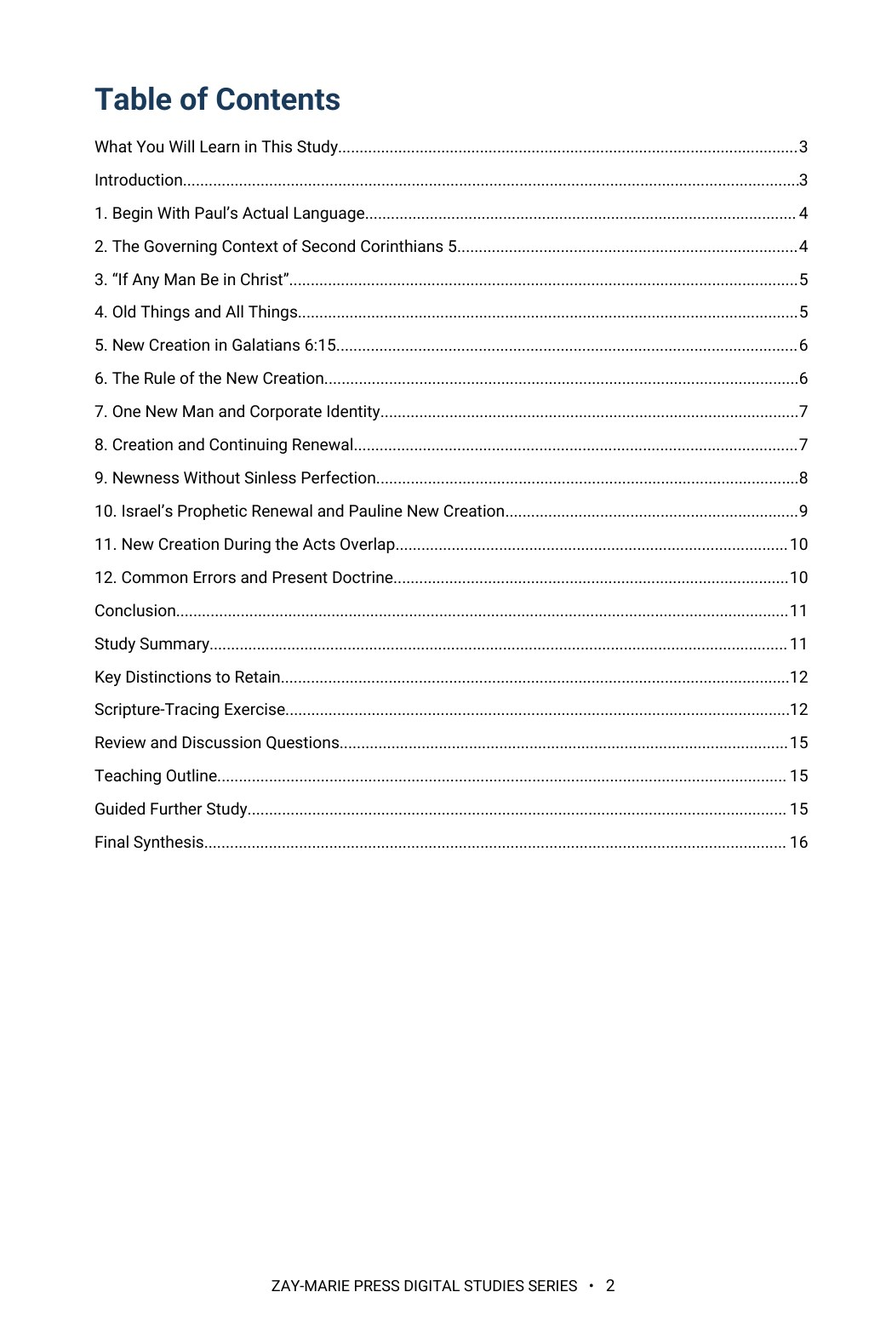
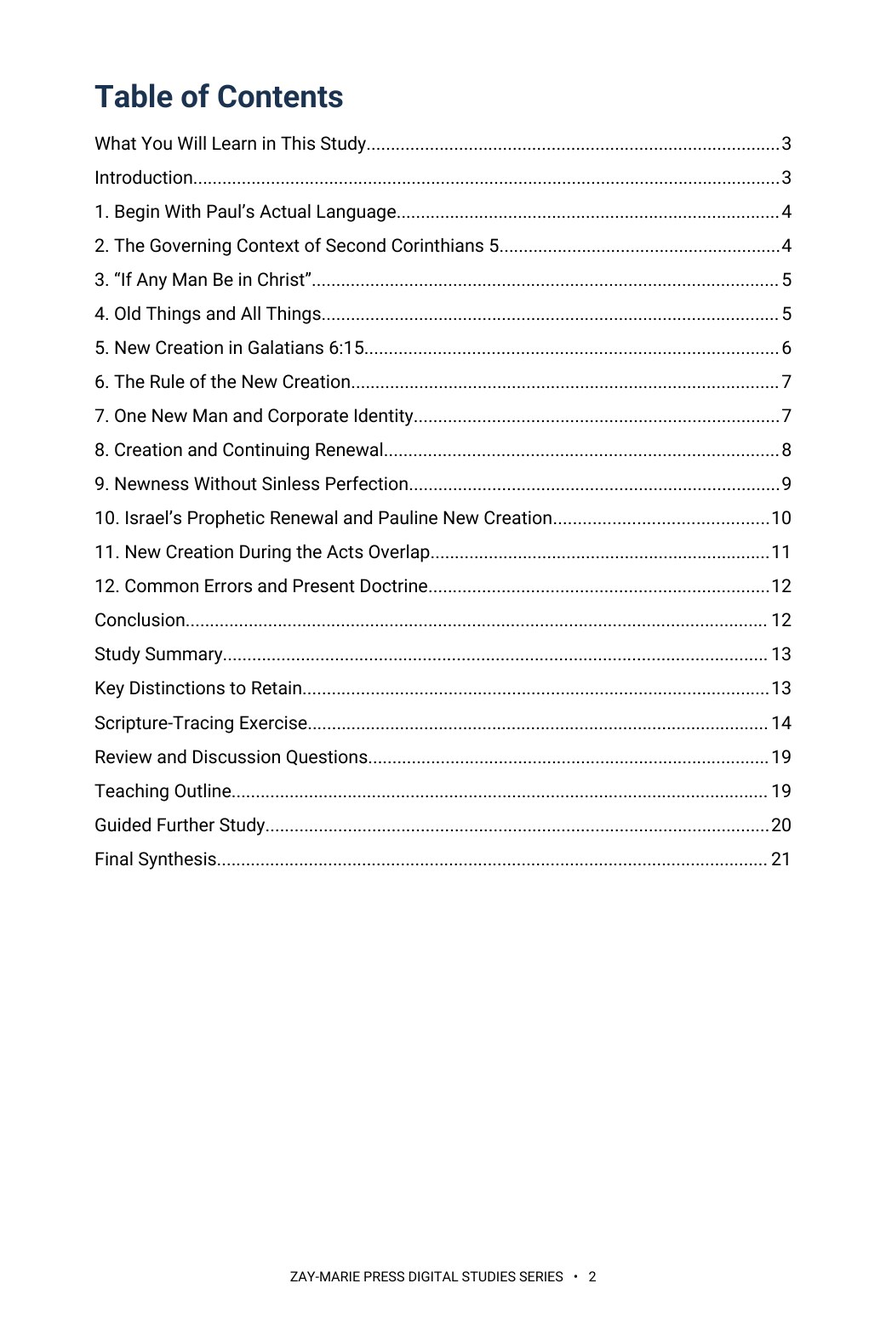
Study 37: page count 21, rebuilt preview pages and trackers for Roboto 10 pt build on current page
Claude-Session: https://claude.ai/code/session_01HC7bs9KYP2scp4hCL6DkTp

diff --git a/study-37-what-does-paul-mean-by-new-creation.html b/study-37-what-does-paul-mean-by-new-creation.html
@@ -3,13 +3,13 @@
 <html lang="en"><head><meta charset="utf-8"><meta name="viewport" content="width=device-width,initial-scale=1"><title>What Does Paul Mean by “New Creation”? | Zay-Marie Press</title><meta name="description" content="Examine Paul’s new-creation language, its relationship to renewal and the one Body, and why it does not transfer the Body into Israel’s prophetic identity."><link rel="stylesheet" href="styles.css?v=20260921-4"><link rel="icon" type="image/png" href="assets/zay-marie-press-favicon.png"><style>
 .study-detail-page{background:#fff;color:#252525}.detail-hero{background:linear-gradient(135deg,#f8f5ec,#e3ece2);padding:58px 0}.detail-hero-grid{display:grid;grid-template-columns:minmax(250px,.72fr) minmax(0,1.28fr);gap:58px;align-items:center}.detail-cover{max-width:390px;margin:auto}.detail-cover img{display:block;width:100%;height:auto;box-shadow:0 14px 36px rgba(8,45,69,.18)}.detail-hero h1{font-size:clamp(2.7rem,5vw,4.7rem);line-height:1.02;margin:8px 0 10px;color:#143823}.detail-subtitle{font-family:Georgia,serif;font-size:1.35rem;font-weight:700;color:#082d45;margin:0 0 7px}.detail-kicker{font-family:Georgia,serif;font-style:italic;font-size:1.05rem;color:#4a4a44;margin:0 0 22px}.detail-copy{font-size:1.08rem;line-height:1.65;max-width:760px}.detail-buyline{display:flex;align-items:center;gap:18px;flex-wrap:wrap;margin-top:25px}.detail-price{font-family:Georgia,serif;font-size:2rem;font-weight:700;color:#143823}.detail-format,.preview-card .page-no{font-family:Arial,sans-serif;font-size:.76rem;font-weight:700;letter-spacing:.1em;text-transform:uppercase;color:#176b3a}.detail-button{display:inline-block;background:#176b3a;color:#fff;padding:13px 22px;font-family:Arial,sans-serif;font-size:.8rem;font-weight:700;letter-spacing:.07em;text-transform:uppercase}.detail-button.pending{opacity:.72;cursor:default}.detail-section{padding:66px 0}.detail-section.soft{background:#f6f7f2}.detail-section.cream{background:#faf8f2}.detail-section h2{color:#143823;margin:6px 0 18px;font-size:clamp(2rem,3.4vw,3rem)}.detail-section .lead{max-width:920px;font-size:1.1rem;line-height:1.62}.study-distinction{max-width:920px;margin-top:28px;margin-bottom:28px;padding:26px 28px;background:#fff;border:1px solid #d8d1bf;border-left:4px solid #b8871c}.study-distinction h3{margin:0 0 10px;color:#143823}.study-distinction p{margin:0 0 14px;line-height:1.62}.study-distinction a{font-family:Arial,sans-serif;font-weight:700;color:#176b3a;text-decoration:none}.study-points{display:grid;grid-template-columns:repeat(3,1fr);gap:18px;margin-top:28px;margin-bottom:28px}.study-point,.scripture-card,.preview-card,.include-item{background:#fff;border:1px solid var(--line);text-align:left}.study-point{border-top:3px solid #176b3a;padding:22px}.study-point h3{color:#143823;margin:0 0 8px;font-size:1.2rem}.study-point p,.scripture-card p,.preview-card p,.include-item p{margin:0;line-height:1.55}.scripture-grid{display:grid;grid-template-columns:repeat(4,1fr);gap:14px;margin-top:24px;margin-bottom:24px}.scripture-card{padding:22px 20px;color:#143823}.scripture-card h3{margin:0 0 9px;font-family:Georgia,serif;font-size:1rem;line-height:1.35}.scripture-card p{font-size:.94rem;color:#45453f}.excerpt{max-width:900px;margin:28px auto;border-left:4px solid #b8871c;padding:10px 0 10px 28px}.excerpt blockquote{font-family:Georgia,serif;font-size:clamp(1.45rem,2.5vw,2rem);line-height:1.45;color:#143823;margin:0 0 16px}.excerpt p{line-height:1.6;margin:0}.preview-grid{display:grid;grid-template-columns:repeat(2,1fr);gap:20px;margin-top:28px;margin-bottom:28px}.preview-card{padding:18px;min-height:210px;box-shadow:0 7px 20px rgba(20,40,25,.05)}.preview-image-link{display:block;margin:0 0 18px}.preview-image-link img{display:block;width:100%;height:auto;border:1px solid #d8d1bf;box-shadow:0 8px 22px rgba(20,40,25,.1);transition:transform .18s ease,box-shadow .18s ease}.preview-image-link:hover img{transform:translateY(-2px);box-shadow:0 11px 28px rgba(20,40,25,.16)}.preview-card h3{color:#143823;margin:8px 0 10px}.preview-instruction{margin:10px 0 0;font-family:Arial,sans-serif;font-size:.78rem;letter-spacing:.04em;color:#5b5b55}.includes-grid{display:grid;grid-template-columns:repeat(4,1fr);gap:14px;margin-top:26px}.include-item{padding:22px 20px;color:#143823}.include-item h3{margin:0 0 9px;font-family:Arial,sans-serif;font-size:.86rem;line-height:1.35;letter-spacing:.02em}.include-item p{font-size:.94rem;color:#45453f}.final-buy{background:#082d45;color:#fff;border-top:4px solid #b8871c;padding:42px 48px;display:grid;grid-template-columns:1fr auto;gap:36px;align-items:center}.final-buy .eyebrow,.final-buy h2,.final-buy .detail-price{color:#fff}.final-buy h2{margin:7px 0 6px}.final-buy p{margin:0}.final-offer{text-align:center}.back-link{display:inline-block;margin-top:18px;color:#143823;font-family:Arial,sans-serif;font-weight:700;text-decoration:none}.preview-lightbox{position:fixed;inset:0;z-index:10000;display:none;align-items:flex-start;justify-content:center;background:rgba(8,22,16,.88);padding:24px;overflow:auto}.preview-lightbox.open{display:flex}.preview-lightbox img{display:block;width:auto;height:auto;max-width:none;box-shadow:0 18px 55px rgba(0,0,0,.4);background:#fff}.preview-lightbox-close{position:fixed;top:18px;right:24px;z-index:10001;width:46px;height:46px;border:1px solid rgba(255,255,255,.65);border-radius:50%;background:rgba(0,0,0,.55);color:#fff;font:32px/1 Arial,sans-serif;cursor:pointer}@media(max-width:900px){.detail-hero-grid{grid-template-columns:1fr;gap:34px}.detail-cover{max-width:330px}.study-points{grid-template-columns:repeat(2,1fr)}.scripture-grid,.includes-grid{grid-template-columns:repeat(2,1fr)}.preview-grid,.final-buy{grid-template-columns:1fr}.final-offer{text-align:left}}@media(max-width:560px){.detail-hero{padding:42px 0}.detail-section{padding:50px 0}.study-points,.scripture-grid,.includes-grid{grid-template-columns:1fr}.final-buy{padding:32px 24px}.detail-buyline{align-items:flex-start;flex-direction:column;gap:8px}.preview-lightbox{padding:58px 10px 24px}.preview-lightbox img{width:100%;max-width:100%;height:auto}}</style></head><body class="study-detail-page">
 <header class="site-header"><div class="wrap nav"><a class="logo" href="index.html" aria-label="Zay-Marie Press home"><img src="assets/zay-marie-press-logo-hq.png" alt="Zay-Marie Press" width="420" height="238"></a><button class="menu-toggle" type="button" aria-expanded="false" aria-controls="primary-nav">MENU</button><nav aria-label="Primary navigation" class="primary-nav" id="primary-nav"><a href="index.html">HOME</a><a href="books.html">BOOKS</a><a href="series.html">SERIES</a><a class="active" aria-current="page" href="digital-studies.html">DIGITAL STUDIES</a><a href="biblical-hermeneutics-course.html">COURSE</a><a href="about.html">ABOUT</a><a href="resources.html">RESOURCES</a><a href="contact.html">CONTACT</a></nav></div></header><main>
-<section class="detail-hero"><div class="wrap detail-hero-grid"><div class="detail-cover"><picture><source srcset="assets/study-37-cover.webp" type="image/webp"><img src="assets/study-37-cover.jpg" alt="What Does Paul Mean by New Creation cover"></picture></div><div><div class="eyebrow">STUDY 37 · DIGITAL STUDY</div><h1>What Does Paul Mean by “New Creation”?</h1><p class="detail-subtitle">Individual Renewal, Corporate Identity, and the Boundaries of Pauline Doctrine</p><p class="detail-kicker">A focused examination of Paul’s language for God’s decisive creative act in Christ</p><p class="detail-copy">Paul declares that in Christ there is a new creation and that neither circumcision nor uncircumcision has governing value. What exactly has God made new, and how does that accomplished reality relate to the believer’s continuing renewal?</p><p class="detail-copy">This study distinguishes new creation, the one new man, practical renewal, newness of life, and future glorification. It also preserves the boundary between the Body’s Pauline identity and Israel’s promised prophetic renewal.</p><div class="detail-buyline"><span class="detail-price">$5.99</span><span class="detail-format">Digital PDF · 16 Pages</span><span class="detail-button pending" aria-disabled="true">Checkout Coming Soon</span></div></div></div></section>
+<section class="detail-hero"><div class="wrap detail-hero-grid"><div class="detail-cover"><picture><source srcset="assets/study-37-cover.webp" type="image/webp"><img src="assets/study-37-cover.jpg" alt="What Does Paul Mean by New Creation cover"></picture></div><div><div class="eyebrow">STUDY 37 · DIGITAL STUDY</div><h1>What Does Paul Mean by “New Creation”?</h1><p class="detail-subtitle">Individual Renewal, Corporate Identity, and the Boundaries of Pauline Doctrine</p><p class="detail-kicker">A focused examination of Paul’s language for God’s decisive creative act in Christ</p><p class="detail-copy">Paul declares that in Christ there is a new creation and that neither circumcision nor uncircumcision has governing value. What exactly has God made new, and how does that accomplished reality relate to the believer’s continuing renewal?</p><p class="detail-copy">This study distinguishes new creation, the one new man, practical renewal, newness of life, and future glorification. It also preserves the boundary between the Body’s Pauline identity and Israel’s promised prophetic renewal.</p><div class="detail-buyline"><span class="detail-price">$5.99</span><span class="detail-format">Digital PDF · 21 Pages</span><span class="detail-button pending" aria-disabled="true">Checkout Coming Soon</span></div></div></div></section>
 <section class="detail-section"><div class="wrap"><div class="eyebrow">ABOUT THIS STUDY</div><h2>New Creation Is More Than a General Metaphor</h2><p class="lead">Paul’s language announces a divine act accomplished in Christ. It describes a real standing and corporate order established by God, not merely a believer’s improved habits, changing emotions, or gradual moral development.</p><p class="lead">At the same time, Scripture also speaks of continuing inward renewal, conduct in newness of life, and the future transformation of the mortal body. Reading those truths together requires careful distinctions between position and practice, individual and corporate dimensions, present possession and future hope.</p><p class="lead">This is not a study of the believer’s whole identity in Christ, which Study 16 surveys broadly, nor of the Israel–Body distinction itself, which Study 4 establishes across every point of contrast, nor of the believer’s present-tense walk by the Spirit, which Study 44 examines from Galatians 5 and Romans 8. Its task is narrower: to test what “new creation” itself asserts — an accomplished standing, not gradual moral improvement — and to keep that accomplished fact distinct from Israel’s own future national renewal.</p><div class="study-distinction"><h3>How These Studies Relate</h3><p>Study 37 examines Paul’s new-creation language as an accomplished reality with individual and corporate dimensions.</p><p><a href="study-16-the-believers-identity-in-christ.html">Study 16 — The Believer's Identity in Christ</a> Start with the larger account of identity and standing in Christ; it places new creation among related blessings while Study 37 tests this expression’s particular meaning and limits.</p><p><a href="study-04-israel-and-the-body-of-christ.html">Study 4 — Israel and the Body of Christ</a> Check the distinct corporate identities of Israel and the Body before assigning Israel’s prophetic restoration promises to Paul’s new creation.</p><p><a href="study-44-walking-in-the-spirit.html">Study 44 — Walking in the Spirit</a> Distinguish this accomplished new-creation standing from the believer's ongoing, present-tense walk by the Spirit, which this study examines from Galatians 5 and Romans 8.</p><p class="connection-guide-link"><a href="study-connections.html#study-37">Explore the full connection guide for Study 37 →</a></p></div></div></section>
 <section class="detail-section soft"><div class="wrap"><div class="eyebrow">WHAT YOU’LL STUDY</div><h2>Distinguish Creation, Renewal, Conduct, and Hope</h2><div class="study-points"><div class="study-point"><h3>Paul’s Actual Language</h3><p>Begin with “new creature” and “new creation” in 2 Corinthians 5:17 and Galatians 6:15 before importing broader theological assumptions.</p></div><div class="study-point"><h3>In Christ</h3><p>Read new creation within union with Christ, reconciliation, changed standing, and God’s accomplished work.</p></div><div class="study-point"><h3>The One New Man</h3><p>Relate personal standing to the corporate creation of Jews and Gentiles in one Body without transferring either group into Israel.</p></div><div class="study-point"><h3>Continuing Renewal</h3><p>Compare Paul’s statements about the creative act and about ongoing renewal in knowledge, thought, and conduct.</p></div><div class="study-point"><h3>Present and Future</h3><p>Hold present new-creation standing together with mortal weakness and the future glorification of the body.</p></div><div class="study-point"><h3>Programmatic Boundaries</h3><p>Compare Israel’s prophetic renewal and the Body’s Pauline new creation without assuming identity transfer.</p></div></div></div></section>
 <section class="detail-section cream"><div class="wrap"><div class="eyebrow">KEY SCRIPTURES</div><h2>Follow New-Creation Truth Across Paul’s Argument</h2><div class="scripture-grid"><div class="scripture-card"><h3>2 Corinthians 5:14–21</h3><p>New creation stands within Christ’s death, reconciliation, changed standing, and God’s work.</p></div><div class="scripture-card"><h3>Galatians 6:14–16</h3><p>Neither circumcision nor uncircumcision governs the rule of the new creation.</p></div><div class="scripture-card"><h3>Ephesians 2:10, 15–16</h3><p>God creates believers unto good works and creates Jews and Gentiles in one new man.</p></div><div class="scripture-card"><h3>Ephesians 4:22–24</h3><p>The believer puts off former conduct and puts on the new man in practical life.</p></div><div class="scripture-card"><h3>Colossians 3:9–11</h3><p>The new man is renewed in knowledge according to the image of the Creator.</p></div><div class="scripture-card"><h3>Romans 6:1–14</h3><p>Newness of life describes conduct consistent with identification in Christ’s death and resurrection.</p></div><div class="scripture-card"><h3>Romans 8:18–23</h3><p>The mortal body still awaits redemption, preserving the distinction between present standing and future change.</p></div><div class="scripture-card"><h3>Isaiah 65–66</h3><p>Israel’s prophetic renewal remains tied to Jerusalem, Kingdom restoration, and the future earthly order.</p></div></div></div></section>
 <section class="detail-section"><div class="wrap"><div class="eyebrow">FROM THE STUDY</div><h2>Position and Practice Must Remain Distinct</h2><div class="excerpt"><blockquote>“Creation establishes the believer’s new standing and corporate identity in Christ. Renewal is the continuing work by which the mind and conduct are brought into practical agreement with that God-given reality.”</blockquote><p>The distinction protects both sides of Paul’s teaching: God’s creative act is complete, while responsible conduct and inward renewal remain necessary.</p></div></div></section>
 <section class="detail-section soft"><div class="wrap"><div class="eyebrow">A LOOK INSIDE</div><h2>Preview the Study Before You Purchase</h2><p class="preview-instruction">Click any page to enlarge it for reading.</p><div class="preview-grid"><div class="preview-card"><a class="preview-image-link" data-preview-lightbox href="assets/study-37-page-2.jpg"><img src="assets/study-37-page-2.jpg" alt="Study 37 interior preview — page 2, table of contents"></a><div class="page-no">Page 2</div><h3>Table of Contents</h3><p>See the study’s full structure and scope at a glance.</p></div><div class="preview-card"><a class="preview-image-link" data-preview-lightbox href="assets/study-37-page-3.jpg"><img src="assets/study-37-page-3.jpg" alt="Study 37 interior preview — page 3, learning outcomes, Study Goal, and Study Outline"></a><div class="page-no">Page 3</div><h3>Learning Outcomes and Study Goal</h3><p>Begin with the questions, passages, and interpretive controls that govern the study.</p></div><div class="preview-card"><a class="preview-image-link" data-preview-lightbox href="assets/study-37-page-5.jpg"><img src="assets/study-37-page-5.jpg" alt="Study 37 interior preview — page 5, Paul’s wording in 2 Corinthians 5 and the phrase “in Christ”"></a><div class="page-no">Page 5</div><h3>Paul’s Wording and Context</h3><p>Follow the context of 2 Corinthians 5 and the phrase “in Christ” before any definition is drawn.</p></div></div></div></section>
 <section class="detail-section"><div class="wrap"><div class="eyebrow">WHAT’S INCLUDED</div><h2>A Focused Study Built for<br>Doctrinal Precision and Responsible Application</h2><div class="includes-grid"><div class="include-item"><h3>Focused Biblical Study</h3><p>A sustained examination of Paul’s new-creation language and the doctrinal boundaries required to interpret it responsibly.</p></div><div class="include-item"><h3>Twelve Teaching Sections</h3><p>Move from Paul’s wording and governing contexts through identity, renewal, the Acts overlap, and present doctrine.</p></div><div class="include-item"><h3>Contextual Exegesis</h3><p>Examine argument, vocabulary, corporate setting, programmatic context, and the relationship between key passages.</p></div><div class="include-item"><h3>High-Contrast Tables</h3><p>Compare new creation, the one new man, inward renewal, newness of life, glorification, and prophetic renewal.</p></div><div class="include-item"><h3>Scripture-Tracing Exercise</h3><p>Trace creation, reconciliation, renewal, conduct, corporate identity, and future hope across Paul’s letters.</p></div><div class="include-item"><h3>Review Questions</h3><p>Test the difference between position and practice, individual and corporate truth, and present standing and future change.</p></div><div class="include-item"><h3>Teaching Outline</h3><p>Use a ready framework for defining new creation, separating related doctrines, and guarding programmatic boundaries.</p></div><div class="include-item"><h3>Guided Further Study</h3><p>Grouped investigations support deeper work in Corinthians, Galatians, Ephesians, Colossians, Romans, and prophetic renewal.</p></div></div></div></section>
-<section class="detail-section cream"><div class="wrap"><div class="final-buy"><div><div class="eyebrow">STUDY 37 · DIGITAL STUDY</div><h2>What Does Paul Mean by “New Creation”?</h2><p>Digital PDF · 16 Pages · For personal use</p></div><div class="final-offer"><div class="detail-price">$5.99</div><span class="detail-button pending" aria-disabled="true">Checkout Coming Soon</span></div></div><a class="back-link" href="digital-studies.html">← Back to All Digital Studies</a></div></section><section class="study-method-course-bridge"><div class="wrap"><div class="study-method-course-panel"><div><div class="eyebrow">BUILD THE INTERPRETIVE METHOD</div><h2>Want More Than a Focused Study?</h2><p>Digital Studies examine particular biblical subjects and difficult passages. The 40-lesson Biblical Hermeneutics course teaches a complete, repeatable method for establishing meaning in context, determining proper assignment, and making responsible application.</p></div><a class="btn btn-primary" href="biblical-hermeneutics-course.html">BIBLICAL HERMENEUTICS COURSE</a></div></div></section></main>
+<section class="detail-section cream"><div class="wrap"><div class="final-buy"><div><div class="eyebrow">STUDY 37 · DIGITAL STUDY</div><h2>What Does Paul Mean by “New Creation”?</h2><p>Digital PDF · 21 Pages · For personal use</p></div><div class="final-offer"><div class="detail-price">$5.99</div><span class="detail-button pending" aria-disabled="true">Checkout Coming Soon</span></div></div><a class="back-link" href="digital-studies.html">← Back to All Digital Studies</a></div></section><section class="study-method-course-bridge"><div class="wrap"><div class="study-method-course-panel"><div><div class="eyebrow">BUILD THE INTERPRETIVE METHOD</div><h2>Want More Than a Focused Study?</h2><p>Digital Studies examine particular biblical subjects and difficult passages. The 40-lesson Biblical Hermeneutics course teaches a complete, repeatable method for establishing meaning in context, determining proper assignment, and making responsible application.</p></div><a class="btn btn-primary" href="biblical-hermeneutics-course.html">BIBLICAL HERMENEUTICS COURSE</a></div></div></section></main>
 <div class="preview-lightbox" id="preview-lightbox" role="dialog" aria-modal="true" aria-label="Expanded study preview"><button class="preview-lightbox-close" type="button" aria-label="Close preview">×</button><img id="preview-lightbox-image" alt=""></div><footer class="site-footer"><div class="wrap footer-grid"><div class="footer-about"><h3>Zay-Marie Press</h3><p class="footer-tagline"><em>Where the Bible Means What It Says.</em></p><p>Zay-Marie Press is a Christian theological publisher dedicated to producing doctrinally precise, carefully structured biblical resources that equip pastors, teachers, and serious students with clarity, depth, and Scripture-anchored truth.</p><p><a href="https://zaymariepress.com">zaymariepress.com</a><br><a href="mailto:info@zaymariepress.com">info@zaymariepress.com</a></p></div><div class="footer-column"><h3>Explore</h3><div class="footer-links-stacked"><a href="books.html">Books</a><br><a href="series.html">Series</a><br><a href="biblical-hermeneutics-course.html">Course</a><br><a href="digital-studies.html">Digital Studies</a><br><a href="resources.html">Resources</a><br><a href="bible-book-summaries.html">Bible Book Summaries</a><br><a href="doctrinal-packets.html">Doctrinal Packets</a><br><a href="historical-drift.html">Historical Drift</a><br><a href="about.html">About</a><br><a href="contact.html">Contact</a></div></div><div class="footer-column"><h3>Reader Support</h3><div class="footer-links-stacked"><a href="reader-support.html#faq">FAQ</a><br><a href="reader-support.html#shipping-returns">Shipping &amp; Returns</a><br><a href="reader-support.html#digital-downloads">Digital Downloads</a><br><a href="reader-support.html#contact-support">Contact Support</a></div></div><div class="footer-column"><h3>Acts Overlap</h3><p><strong>Acts Overlap Theology Series</strong></p><p><em>Two Distinct Streams. One Overlap.</em></p><p><a href="series.html">Series Overview</a></p></div></div><div class="wrap footer-bottom">© 2026 Zay-Marie Press. All rights reserved.</div></footer><script src="site.js"></script><script>const lightbox=document.getElementById('preview-lightbox'),lightboxImage=document.getElementById('preview-lightbox-image'),closeLightbox=()=>{lightbox.classList.remove('open');lightboxImage.src='';};document.querySelectorAll('[data-preview-lightbox]').forEach(link=>link.addEventListener('click',event=>{event.preventDefault();lightboxImage.src=link.href;lightboxImage.alt=link.querySelector('img').alt;lightbox.classList.add('open');}));document.querySelector('.preview-lightbox-close').addEventListener('click',closeLightbox);lightbox.addEventListener('click',event=>{if(event.target===lightbox)closeLightbox();});document.addEventListener('keydown',event=>{if(event.key==='Escape')closeLightbox();});</script><script type="module" src="https://static.cloudflareinsights.com/beacon.min.js/v31edd6df95cf4e85bb4c19e7a9bdbcba1788362987495" integrity="sha512-iIg7k2xntmwu6/uSb5tpc/hySgZc4eoL31yB29W6tJFo2akwjPWcEqnCEdJvGexCL0KEQwVYv5BlowfhVz26hg==" data-cf-beacon='{"version":"2024.11.0","token":"4badd691d9c04f819c55899bff00fd5c","r":1,"spa":2}' crossorigin="anonymous"></script>
 </body></html>

diff --git a/site.js b/site.js
@@ -62,7 +62,7 @@ const resourceModal=document.querySelector('#resource-modal'), resourceModalTitl
 if(resourceModal&&resourceModalTriggers.length){const closeResourceModal=()=>{resourceModal.hidden=true;document.body.classList.remove('resource-modal-open');lastResourceTrigger?.focus();};resourceModalTriggers.forEach(trigger=>trigger.addEventListener('click',()=>{lastResourceTrigger=trigger;if(resourceModalTitle)resourceModalTitle.textContent=trigger.dataset.title||'Resource';if(resourceModalDescription)resourceModalDescription.textContent=trigger.dataset.description||'';if(resourceModalLink){resourceModalLink.href=trigger.dataset.href||'#';resourceModalLink.textContent=trigger.dataset.linkText||'OPEN RESOURCE';}resourceModal.hidden=false;document.body.classList.add('resource-modal-open');resourceModalClose?.focus();}));resourceModalClose?.addEventListener('click',closeResourceModal);resourceModal.addEventListener('click',e=>{if(e.target===resourceModal)closeResourceModal();});document.addEventListener('keydown',e=>{if(e.key==='Escape'&&!resourceModal.hidden)closeResourceModal();});}
 
 /* Display the verified final-PDF page count at the primary purchase decision point. */
-const digitalStudyPageCounts={1:17,2:19,3:16,4:17,5:15,6:15,7:14,8:13,9:15,10:20,11:15,12:15,13:18,14:15,15:15,16:16,17:17,18:18,19:16,20:15,21:16,22:15,23:14,24:16,25:17,26:16,27:16,28:17,29:19,30:18,31:18,32:19,33:18,34:20,35:22,36:20,37:16,38:16,39:16,40:16,41:16,42:17,43:17,44:19,45:19,46:20,47:19,48:18,49:20,50:19,51:20,52:19,53:19,54:17,55:20,56:20,57:20,58:19,59:20,60:15,61:16,62:18,63:17,64:17,65:16,66:16,67:17,68:16,69:17,70:17,71:16};
+const digitalStudyPageCounts={1:17,2:19,3:16,4:17,5:15,6:15,7:14,8:13,9:15,10:20,11:15,12:15,13:18,14:15,15:15,16:16,17:17,18:18,19:16,20:15,21:16,22:15,23:14,24:16,25:17,26:16,27:16,28:17,29:19,30:18,31:18,32:19,33:18,34:20,35:22,36:20,37:21,38:16,39:16,40:16,41:16,42:17,43:17,44:19,45:19,46:20,47:19,48:18,49:20,50:19,51:20,52:19,53:19,54:17,55:20,56:20,57:20,58:19,59:20,60:15,61:16,62:18,63:17,64:17,65:16,66:16,67:17,68:16,69:17,70:17,71:16};
 const digitalStudyMatch=window.location.pathname.match(/\/study-(\d+)-/i);
 const digitalStudyFormat=document.querySelector('.detail-hero .detail-format');
 if(digitalStudyMatch&&digitalStudyFormat){const studyNumber=Number(digitalStudyMatch[1]),pageCount=digitalStudyPageCounts[studyNumber];if(pageCount)digitalStudyFormat.textContent=`Digital PDF · ${pageCount} Pages`;}

diff --git a/CLAUDE.md b/CLAUDE.md
@@ -23,7 +23,7 @@ These are kept in the repo at `controlling-documents/` and are the current versi
 - As of v1.50 (publisher directive, 2026-10-03), the **What You Will Learn in This Study** section is always bulleted, never set as running paragraphs, written into this file in the same pass (Master Standard Section 3 item 4, Section 6 structure line, Section 22): a list of bullet points, each describing one process, textual marker or interpretive discipline the reader will practice (Section 17 still governs what they may say); at most one short lead-in line may stand above the bullets (for example, “By the end of this study, you should be able to:”); the Study Goal callout and the Study Outline keep their own forms. It governs every new study and every study rebuilt or retrofitted from now on; earlier studies take it when reopened or when the publisher directs. In every study check (Step 1), report whether the section is bulleted. First applied to Study 43.
 **`controlling-documents/Digital_Studies_Relationship_Map_v1.39.md`** — records each study's distinct subject, its related studies, the eight priced six-study collections, the Paul's Missionary Journeys cross-reference map, and the five primary catalog categories (currently version 1.39, covers Studies 1–71; update it as new studies publish, bump the version number, rename the file to match, and log the change in its own version-history table — mirroring the Master Standard's `_vX.Y` filename convention). Check a proposed topic against it before recommending or writing a new study. (2026-09-28: the file was missing from this repo despite this note referencing it; replaced from the publisher's copy and bumped v1.15→v1.25 in the same pass. If this note ever again points to a version not present under `controlling-documents/`, ask the publisher for a copy rather than proceeding without the check.)
 - **`controlling-documents/Digital_Studies_Category_Standard_v1.1.md`** — FINAL and binding (publisher, 2026-10-01): the rules for the five primary catalog categories (Foundations, Israel & Prophecy, Body of Christ, Passages, Doctrinal Themes), the ordered decision procedure for new studies, the precedents, all 71 fixed assignments, and the cover-label form for each category. Read it before placing any card or cover label. Do not ask the publisher where a study belongs; apply the procedure and state the result. Only the publisher changes a ruling; then bump this Standard's version and filename, re-letter the cover, and update the Relationship Map.
-- **`controlling-documents/Doctrinal_Upgrade_Retrofit_Plan_v1.115.md`** — working tracker for retrofitting Studies 1–59 to the 2026-10-02 doctrinal upgrade (Framework/PAM v1.1, Master Standard v1.40, Rules 7–17): withdrawn-wording search keys, impact tiers, waves and the per-study method. Read it before continuing the retrofit in any session; update status, bump the version and rename the file as work proceeds.
+- **`controlling-documents/Doctrinal_Upgrade_Retrofit_Plan_v1.116.md`** — working tracker for retrofitting Studies 1–59 to the 2026-10-02 doctrinal upgrade (Framework/PAM v1.1, Master Standard v1.40, Rules 7–17): withdrawn-wording search keys, impact tiers, waves and the per-study method. Read it before continuing the retrofit in any session; update status, bump the version and rename the file as work proceeds.
 - **`controlling-documents/Doctrinal_Packet_Standard_v0.3.md`** — Doctrinal Packet Standard (DRAFT; §7 approved). Governs the separate Doctrinal Packets product strand (5-page interpretive PDFs per Bible book — a print-friendly cover as page 1 plus 4 content pages, $2.99, KJV, pilot: Genesis, live at `packet-genesis.html`, hub `doctrinal-packets.html`; site pages say "5 Pages", cover styles live in `packets.css`, Old Testament blue and New Testament soft pale green, hub listed in Bible order). **Preview rule (publisher directive, 2026-09-29, packets only):** previews show about one page's worth in two cropped views (top of page 1 through the anchor texts; the chart section) — never the exegesis, architecture, Mystery contrast, logic chain, outline, or closing. Master Standard §16/§17 still govern Digital Studies. Bump the version and rename the file as the Standard is finalized.
 - **`controlling-documents/Preview_Page_Spoiler_Retrofit_Audit_v1.4.md`** — working tracker for the Studies 1–60 preview-page conclusion-spoiler retrofit (see the section below). Read it before continuing that audit in any session; update its status fields and changelog, bump the version, and rename the file to match as the audit proceeds — same `_vX.Y` convention as the other controlling documents. As of v1.1, the website-side half was DONE: all 60 studies' "What You'll Study" text was judged against the rule (methodology documented in the file) and 22 points across 11 studies were rewritten and pushed; an unrelated Study 22 content bug (Study 21's content had leaked into it) was also found and fixed. As of v1.2, the publisher supplied Studies 1–60's interior production PDFs and the interior-PDF half was also surveyed (read-only): 10 studies (37, 41, 45, 47, 48, 49, 51, 52, 53, 54) were found to have at least one interior "What You Will Learn" violation, 50 studies were confirmed compliant, and the orphaned `assets/study-45-sanctification-under-grace.docx` (removed from the repo per the publisher in v1.0) was confirmed word-for-word identical to Study 45's actual production interior PDF content. As of v1.3, the publisher supplied editable DOCX sources for all 10 violating studies; all 15 violating points were rewritten and approved, delivered as corrected final PDFs, and — along the way — a second defect was found and fixed (Studies 47 and 48's source DOCX still had an unintegrated cover placeholder despite both being long-published live with real covers; fixed by inserting the existing approved cover art). The website's "What You Will Learn" preview image (`study-NN-page-3.jpg`) was regenerated from the corrected content for all 10 studies and pushed to `main` (commit `cea1859`), verified against a fresh clone. **The website side of this audit is now fully compliant for all 60 studies.** Outstanding: the publisher's purchasable interior PDF files themselves have corrected versions delivered, but distribution to existing purchasers was decided by the publisher on 2026-09-29: silent swap of the files behind the existing downloads, no reissue notice (recorded in the v1.4 changelog entry; the product files are not in this repo).
 

diff --git a/controlling-documents/Doctrinal_Upgrade_Retrofit_Plan_v1.116.md b/controlling-documents/Doctrinal_Upgrade_Retrofit_Plan_v1.116.md
@@ -208,3 +208,4 @@ Working tracker for correcting published studies to the Framework/PAM v1.1, Mast
 - v1.113 (2026-10-04): Study 34 rebuilt in Roboto at 10 pt on the current page, 20 pages (was 16 on the old 432×648 page). WYWL intro paragraph above the lead-in removed (seven process bullets and the passage line kept); 'read as the Framework assigns them' (table cell) reworded to 'read in their own audience and setting'; overlap, Rule 17, Rule 11 and Rule 18 short-form sentences added in section 7; Acts 28 wording conformed with the suspension-boundary sentence; Teaching Outline numbered. Note: Step 1 grep had missed table cells; table cells are now included in the internal-term check. Preview 3 moved from page 5 to page 6 (the vocabulary table).
 - v1.114 (2026-10-04): Study 35 rebuilt in Roboto at 10 pt on the current page, 22 pages (was 16 in the published PDF). The supplied FINAL DOCX was already on the new page in Roboto at 9 pt with typed bullets and numbers: rebuilt with real bullets (WYWL, Study Outline), real numbering (Review questions; Teaching Outline, whose Roman numerals were removed); 'The Olive Tree Firewall governs the reading:' replaced by 'Four boundaries govern the reading:' and the Romans 11 triad plus 'Identity is fixed by divine program, not by metaphor.' added; Acts 28 wording conformed with the suspension-boundary sentence. Overlap, Rule 17, Gal 3 and Gal 6:16 wording already conformed. This closes the Romans 11 depth item for Study 35.
 - v1.115 (2026-10-04): Study 36 rebuilt in Roboto at 10 pt on the current page, 20 pages (was 16 on the old 432×648 page at 8 pt). Romans 11 triad and 'Identity is fixed by divine program, not by metaphor.' added after the Romans 9–11 paragraph; Acts 28 wording conformed with the suspension-boundary sentence; 'the common ground of faith' (Romans 3:29–30 paragraph) replaced under Rule 19 (publisher-approved); WYWL, overlap, remnant/Body and Galatians 3 wording already conformed. Preview 3 moved from page 5 to page 6 (category table). Closes the Romans 11 depth item for Study 36.
+- v1.116 (2026-10-04): Study 37 rebuilt in Roboto at 10 pt on the current page, 21 pages (was 16 on the old 432×648 page at 8 pt). Withdrawn wording removed: Gal 6:16 'believing Jews within the Body—Israelites by identity' now 'believing Jews within Israel’s prophetic identity—not members of the Body'; the 'believing Jews are gathered into the Body … identity, not program membership' clarifiers (remnant paragraph and overlap paragraph) replaced by the standing Rule 17 and overlap sentences; Acts 28 'national judicial suspension point' conformed with the suspension-boundary sentence. Orphan imprint (page 21 alone) fixed with layout-only keep-with-next on Final Synthesis so it moves with the imprint; no text changed.

diff --git a/controlling-documents/Digital_Studies_PAM_Audit_v1.210.md b/controlling-documents/Digital_Studies_PAM_Audit_v1.210.md
@@ -439,3 +439,4 @@ Study 15 PDF not yet supplied. Typography: none of Studies 2, 3, 6, 8 is in EB G
 - v1.207 (2026-10-04): Study 34 rebuilt in Roboto at 10 pt on the current page, 20 pages; Framework wording removed (table cell); overlap, Rule 17, Rule 11 and Rule 18 short-form sentences added; Acts 28 wording conformed; Teaching Outline numbered (see Retrofit Plan v1.113).
 - v1.208 (2026-10-04): Study 35 rebuilt in Roboto at 10 pt on the current page, 22 pages; internal 'Firewall' label removed; Romans 11 triad added; Acts 28 wording conformed; typed bullets and numbering made real (see Retrofit Plan v1.114).
 - v1.209 (2026-10-04): Study 36 rebuilt in Roboto at 10 pt on the current page, 20 pages; Romans 11 triad added; Acts 28 wording conformed; 'common ground of faith' replaced under Rule 19 (see Retrofit Plan v1.115).
+- v1.210 (2026-10-04): Study 37 rebuilt in Roboto at 10 pt on the current page, 21 pages; withdrawn Gal 6:16 and 'gathered into the Body' wording replaced with standing sentences; Acts 28 wording conformed (see Retrofit Plan v1.116).
